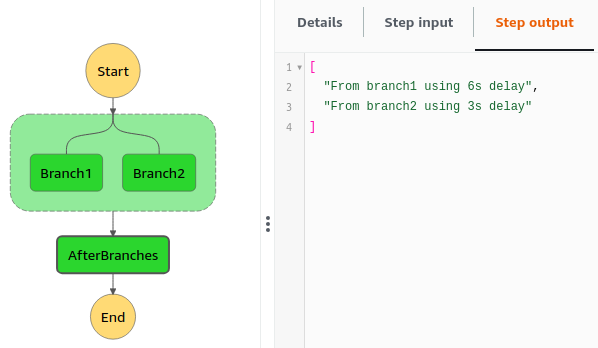
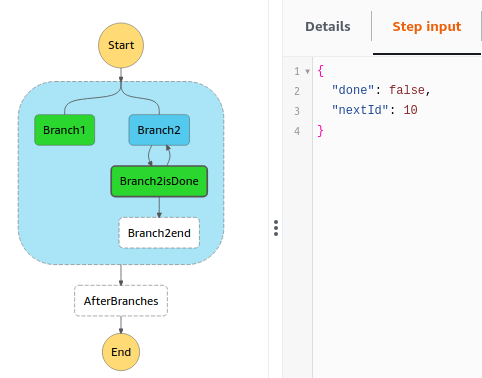
Add Choice to relaunch a Task if lambda timeout is close

diff --git a/sf.js b/sf.js
@@ -1,10 +1,46 @@
 import 'source-map-support/register';
+const Promise = require('bluebird');
 
 export const branch1 = async (event, context) => {
+  console.log('event', event);
   return await message({time: 6, msg: 'From branch1'});
 };
+
 export const branch2 = async (event, context) => {
-  return await message({time: 3, msg: 'From branch2'});
+  console.log('event', event);
+  const endId = 30;
+  const marginTime = 10000;
+  const taskTakes = 1000;
+  let nextId = event.nextId || 0;
+
+  let remainingTime;
+  try {
+    do {
+      await Promise.delay(taskTakes);
+      console.log(`Item ${nextId} processed`);
+      nextId++;
+      remainingTime = context.getRemainingTimeInMillis();
+      console.log(`RemainingTimeInMillis ${remainingTime}`);
+      if (!(remainingTime > marginTime)) console.log(`Stop processing as there is no time left`);
+    } while (nextId <= endId &&
+    remainingTime > marginTime);
+
+    let ret;
+    if (nextId <= endId) {
+      ret = {
+        done: false,
+        nextId
+      };
+    } else {
+      ret = {
+        done: true
+      };
+    }
+    console.log('return', ret);
+    return ret;
+  } catch (err) {
+    throw err;
+  }
 };
 
 export const afterBranches = async (event, context) => {

diff --git a/README.md b/README.md
@@ -1,8 +1,12 @@
-# Run parallel tasks with Step Functions
+# Run parallel tasks longer than Lambda time limited life using Step Functions
 <br />
 <p align="center">
   <img src="doc/graph.png" />
-</p>
+</p><br />
+
+The state machine process 30 items, every item takes 1s to complete, but the lambda timeout is set to 20s (purposely so this PoC doesn't take so much time).<br /><br />
+After each item is processed, lambda asks how much time is left from the 20s, if it's left less than 10s it will stop processing and return ` { done: false, nextId: <number> } ` so the following Choice state restarts the lambda from `nextId`.<br /><br />
+Once all the 30 items were processed, lambda returns `{ done: true }` so Choice directs to end the state machine.  
 
 #### Requirements
 * AWS CLI
@@ -22,9 +26,9 @@ export AWS_REGION=<aws region put on serverless.yml>
 ```bash
 sls deploy
 ```
-* Execute state machine
+* Execute state machine. `data` parameter is optional, if it's not sent it will process from item 0 or specify `nextId` choosing between 1 and 30.
 ```bash
-sls invoke stepf --name test --data '{"something":"irrelevant"}'
+sls invoke stepf --name test --data '{"nextId": <number>}'
 ```
 ---
 Starting repo: [Serverless Node.js Starter](https://github.com/AnomalyInnovations/serverless-nodejs-starter)
